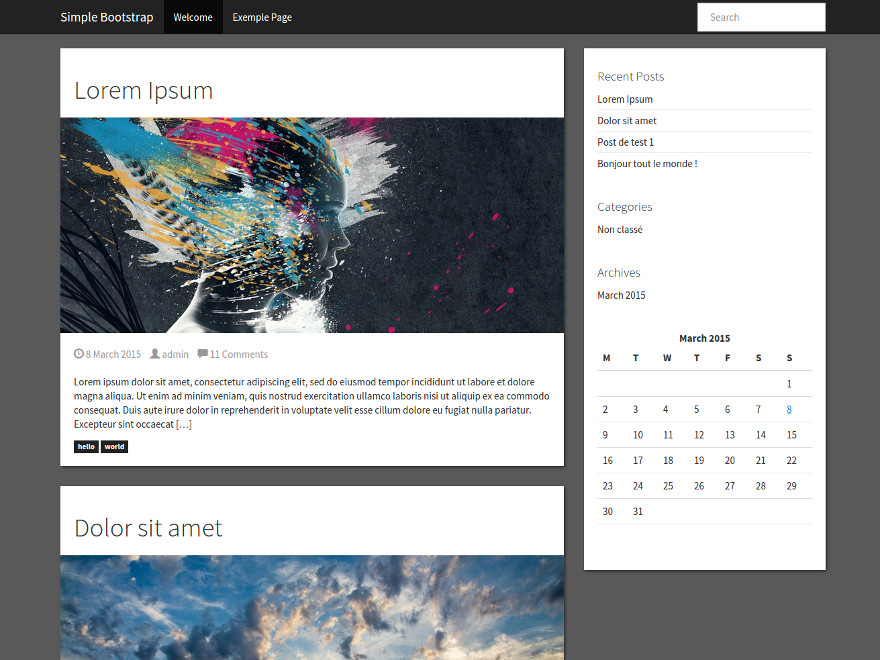
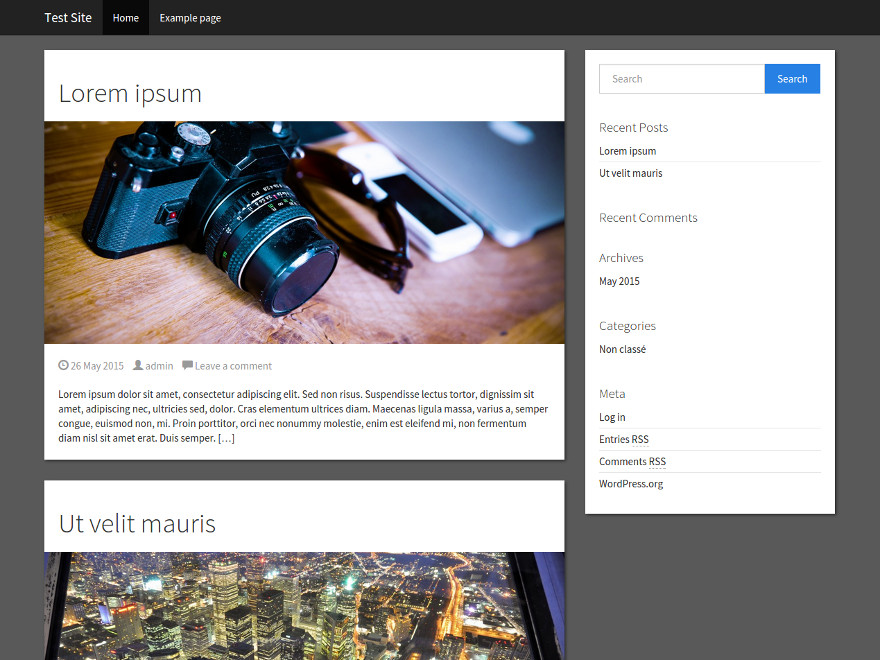
Changed screenshot and added copyright info in readme

diff --git a/functions.php b/functions.php
@@ -162,18 +162,16 @@ add_filter('nav_menu_css_class', 'simple_bootstrap_add_active_class', 10, 2 );
 // display the main menu bootstrap-style
 // this menu is limited to 2 levels (that's a bootstrap limitation)
 function simple_bootstrap_display_main_menu() {
-    if ( has_nav_menu("main_nav") ) {
-        wp_nav_menu(
-            array( 
-                'theme_location' => 'main_nav', /* where in the theme it's assigned */
-                'menu' => 'main_nav', /* menu name */
-                'menu_class' => 'nav navbar-nav',
-                'container' => false, /* container class */
-                'depth' => 2,
-                'walker' => new simple_bootstrap_Bootstrap_walker(),
-            )
-        );
-    }
+    wp_nav_menu(
+        array( 
+            'theme_location' => 'main_nav', /* where in the theme it's assigned */
+            'menu' => 'main_nav', /* menu name */
+            'menu_class' => 'nav navbar-nav',
+            'container' => false, /* container class */
+            'depth' => 2,
+            'walker' => new simple_bootstrap_Bootstrap_walker(),
+        )
+    );
 }
 
 /*

diff --git a/header.php b/header.php
@@ -18,21 +18,25 @@
 				<div class="container">
 		  
 					<div class="navbar-header">
+						<?php if (has_nav_menu("main_nav")): ?>
 						<button type="button" class="navbar-toggle collapsed" data-toggle="collapse" data-target="#navbar-responsive-collapse">
 		    				<span class="sr-only"><?php _e('Navigation', 'default'); ?></span>
 							<span class="icon-bar"></span>
 							<span class="icon-bar"></span>
 							<span class="icon-bar"></span>
 						</button>
+						<?php endif ?>
 						<a class="navbar-brand" title="<?php bloginfo('description'); ?>" href="<?php echo esc_url(home_url('/')); ?>"><?php bloginfo('name'); ?></a>
 					</div>
 
+					<?php if (has_nav_menu("main_nav")): ?>
 					<div id="navbar-responsive-collapse" class="collapse navbar-collapse">
 						<?php
 						    simple_bootstrap_display_main_menu();
 						?>
 
 					</div>
+					<?php endif ?>
 
 				</div>
 			</nav>
